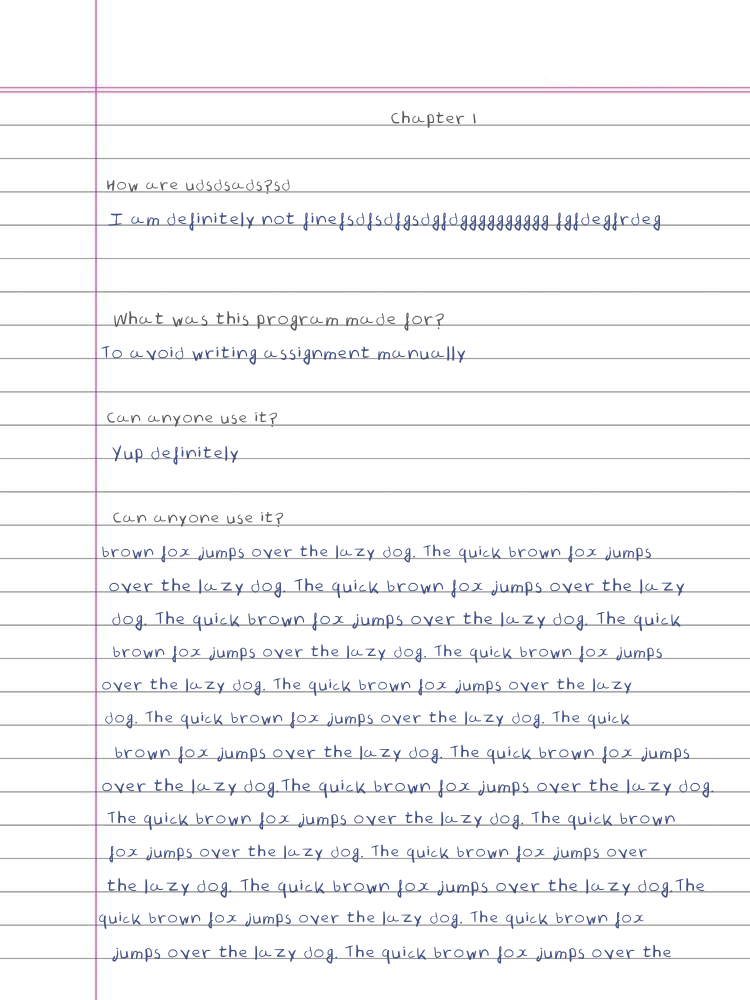
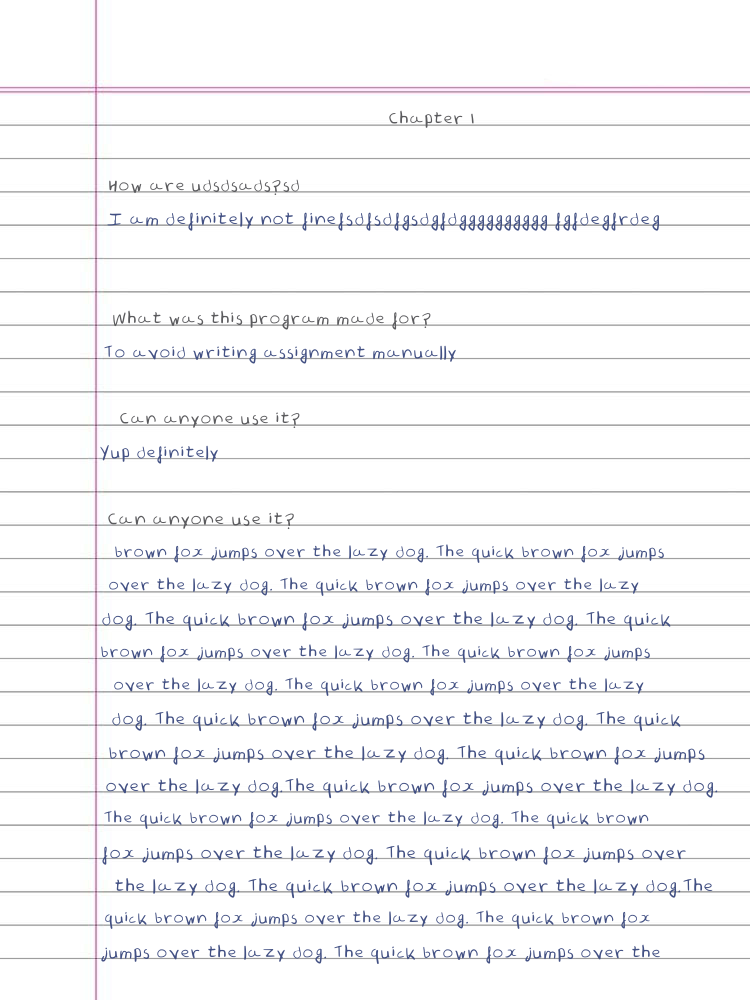
Final

diff --git a/main.py b/main.py
@@ -1,15 +1,12 @@
 import os
-import random
 import re
 import shutil
 import traceback
-
-import cv2
-import numpy as np
-from PIL import ImageFont, ImageDraw, Image, ImageChops, ImageMath
-import time, timeit
 from glob import glob
 from random import randint
+import cv2
+import numpy as np
+from PIL import ImageFont, ImageDraw, Image
 
 PAGE_IMG = "pages/notebook_1.jpg"
 FONTS = glob("fonts\\test\\my_font\\*")
@@ -50,6 +47,7 @@ class Page:
             self.lines.remove(x)
         self.lines = self.lines[ROW_SKIP:]
 
+
 class Document:
     def __init__(self):
         self.file_loc = "input/document.txt"
@@ -61,10 +59,8 @@ class Document:
         for i, char in enumerate(line):
             if char == " ":
                 count_w += 1
-            if i > char_limit:
-                if " " not in line[i:8]:
-                    count_w += 1
-                return count_w
+                if i > char_limit:
+                    return count_w
         return len(line.split(" "))
 
     def document_parse(self, total_lines):
@@ -102,7 +98,7 @@ class Document:
             gap = 6 + randint(1, 3)
             if "##" in line:
                 color = (93, 90, 90, 255)
-                gap = page.page_img.shape[1]/2-len(line)*30
+                gap = page.page_img.shape[1] / 2 - len(line) * 30
             elif '#' in line:
                 color = (93, 90, 90, 255)
             else:
